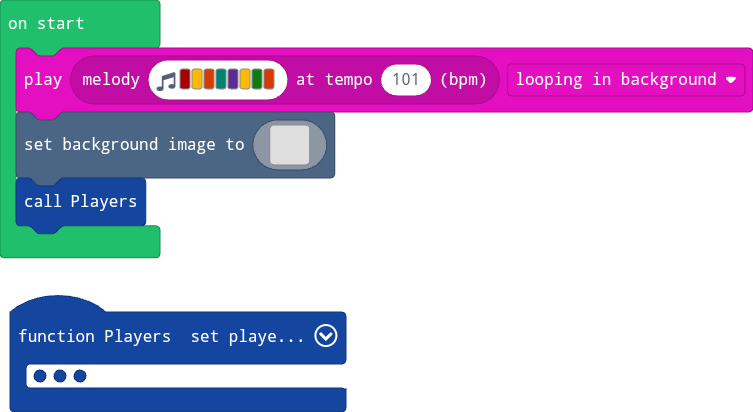
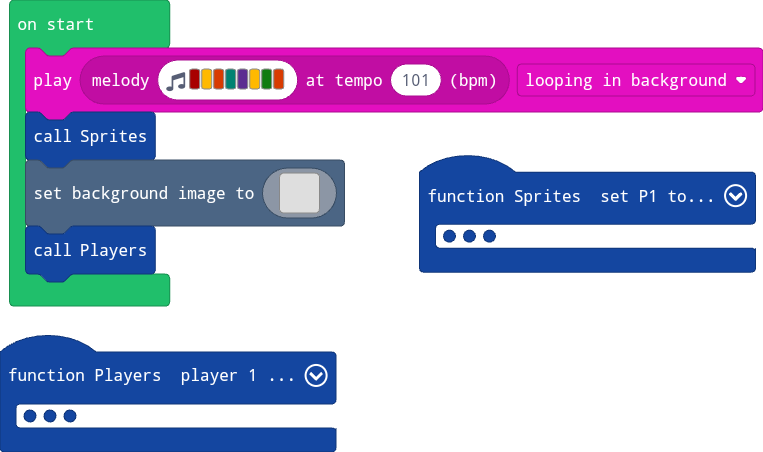
Update! Players now control sprites instead of pictures!

diff --git a/main.ts b/main.ts
@@ -2,16 +2,23 @@ namespace SpriteKind {
     export const Ball = SpriteKind.create()
 }
 function Players () {
-    mp.setPlayerSprite(mp.playerSelector(mp.PlayerNumber.One), sprites.create(assets.image`Player 1`, SpriteKind.Player))
-    mp.moveWithButtons(mp.playerSelector(mp.PlayerNumber.One))
-    mp.setPlayerSprite(mp.playerSelector(mp.PlayerNumber.Two), sprites.create(assets.image`Player 2`, SpriteKind.Player))
-    mp.moveWithButtons(mp.playerSelector(mp.PlayerNumber.Two))
-    mp.setPlayerSprite(mp.playerSelector(mp.PlayerNumber.Three), sprites.create(assets.image`Player 3`, SpriteKind.Player))
-    mp.moveWithButtons(mp.playerSelector(mp.PlayerNumber.Three))
-    mp.setPlayerSprite(mp.playerSelector(mp.PlayerNumber.Four), sprites.create(assets.image`Player 4`, SpriteKind.Player))
-    mp.moveWithButtons(mp.playerSelector(mp.PlayerNumber.Four))
+    controller.player1.moveSprite(P1)
+    controller.player2.moveSprite(P2)
+    controller.player3.moveSprite(P3)
+    controller.player4.moveSprite(P4)
 }
+function Sprites () {
+    P1 = sprites.create(assets.image`Player 1`, SpriteKind.Player)
+    P2 = sprites.create(assets.image`Player 2`, SpriteKind.Player)
+    P3 = sprites.create(assets.image`Player 3`, SpriteKind.Player)
+    P4 = sprites.create(assets.image`Player 4`, SpriteKind.Player)
+}
+let P4: Sprite = null
+let P3: Sprite = null
+let P2: Sprite = null
+let P1: Sprite = null
 music.play(music.stringPlayable("C5 A B F D A G B ", 101), music.PlaybackMode.LoopingInBackground)
+Sprites()
 scene.setBackgroundImage(img`
     . . . . . . . . . . . . . . . . 
     . . . . . . . . . . . . . . . . 
